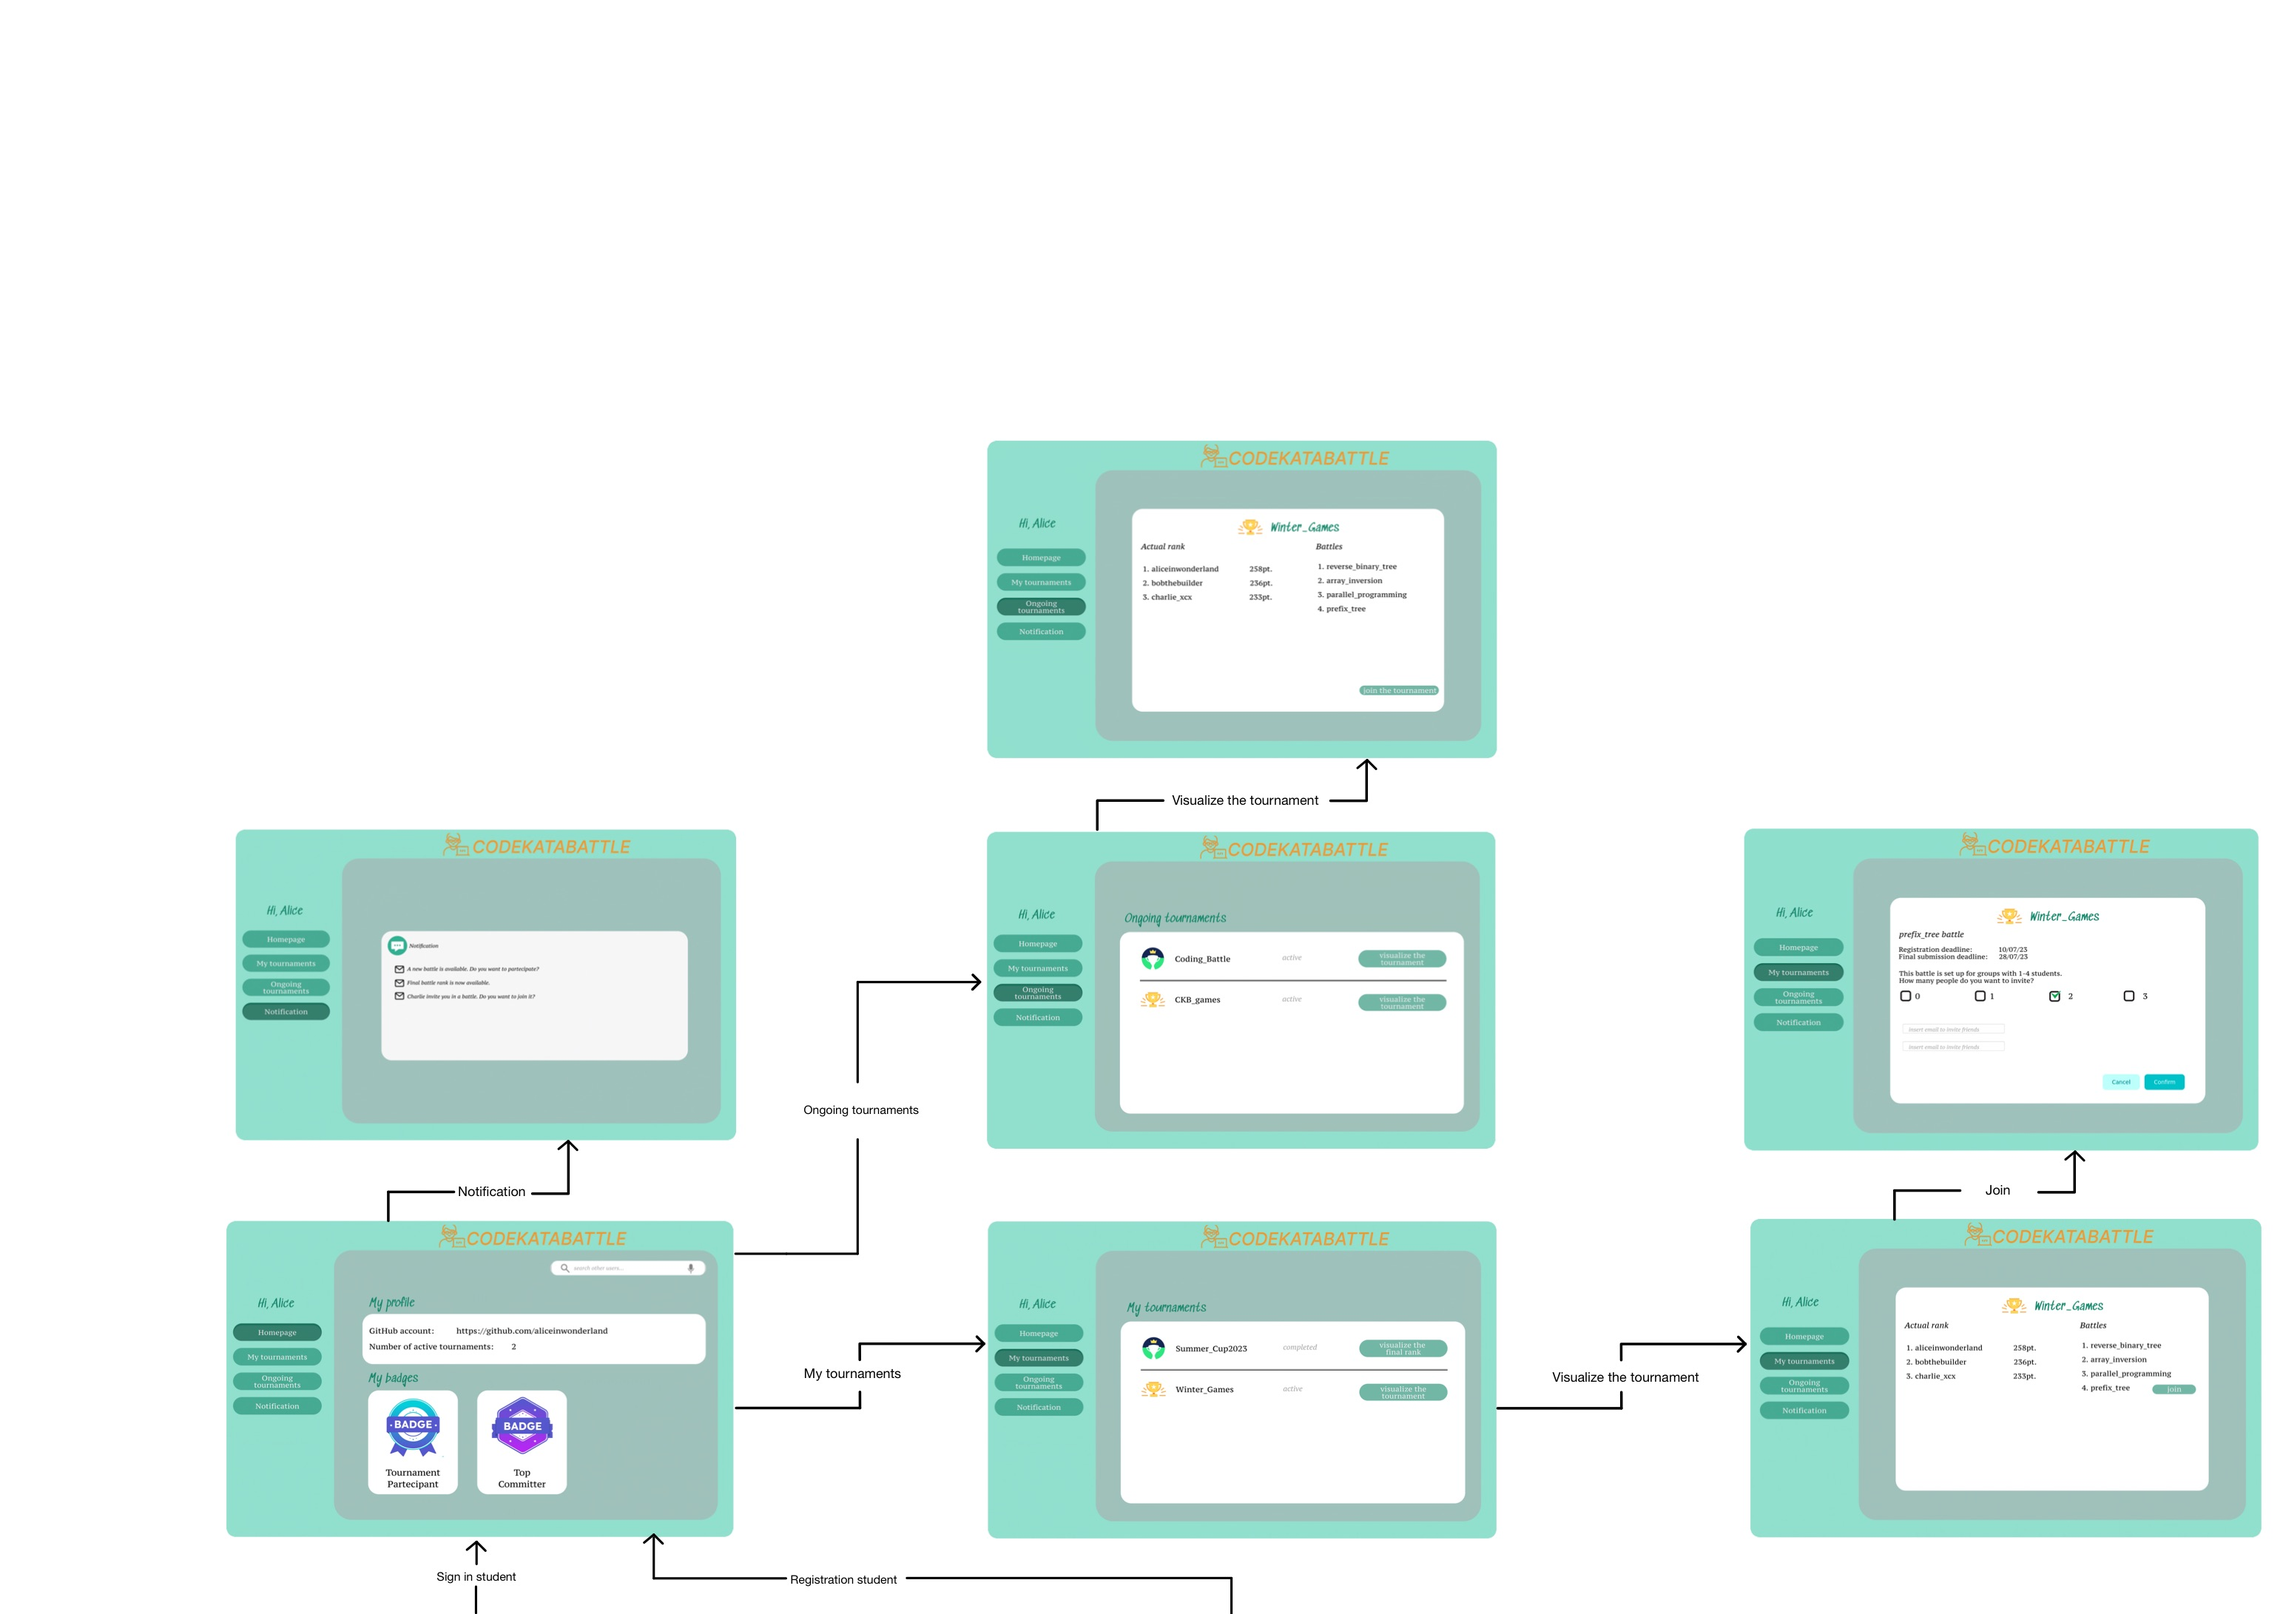
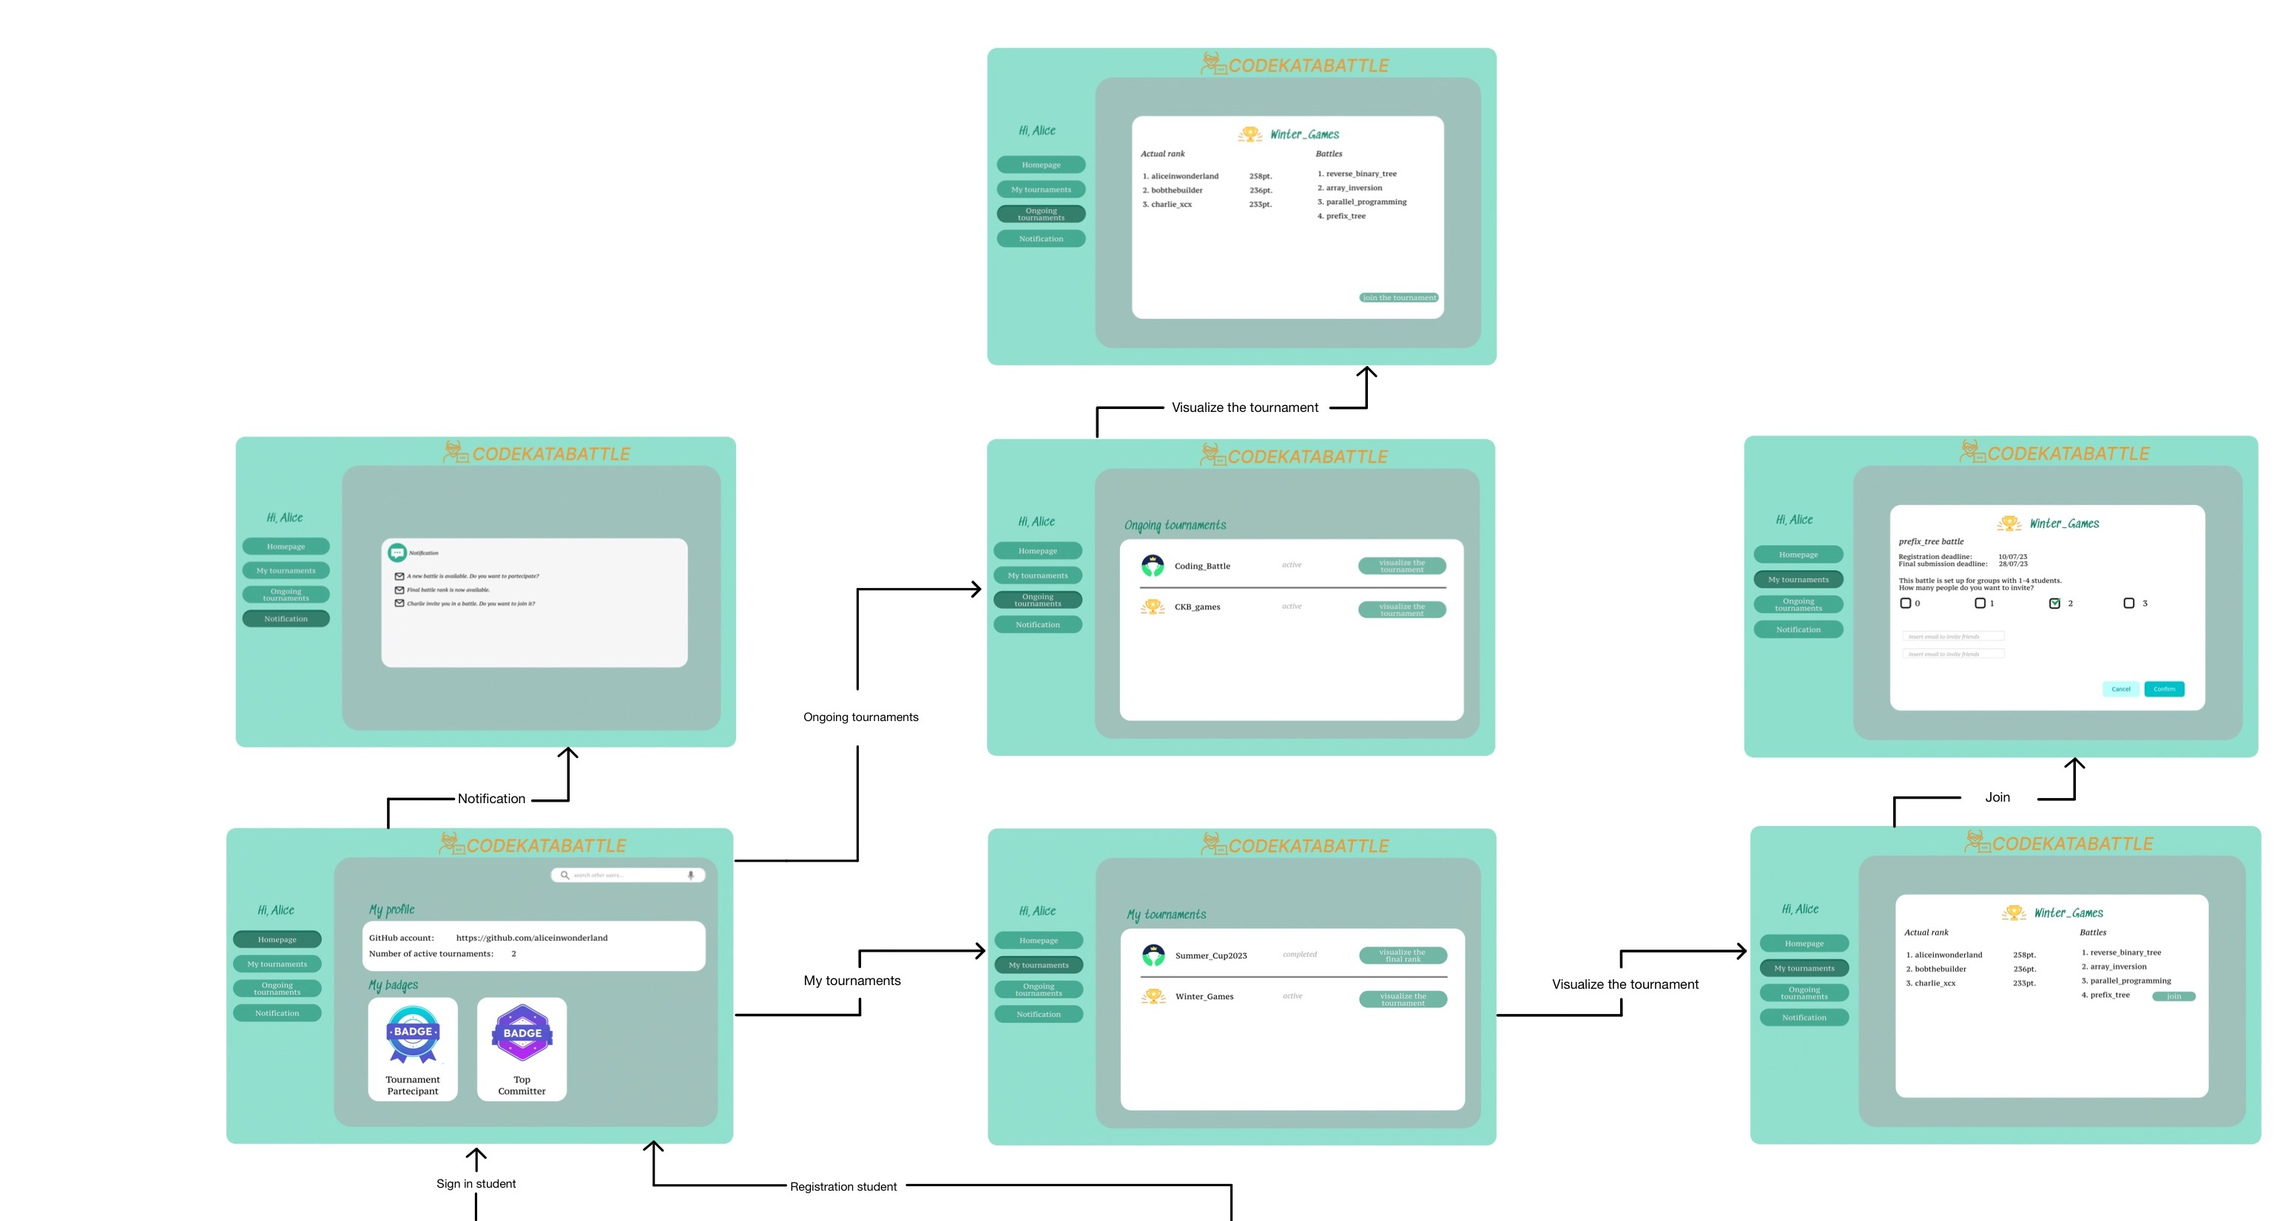
minor fix

diff --git a/DD/chapters/03_user_interface_design.tex b/DD/chapters/03_user_interface_design.tex
@@ -115,7 +115,7 @@ are shown in the following figures.\\
 The following diagram shows the connection between the different pages of the application. 
 \begin{figure}[H]
     \centering
-    \includegraphics[width=1\textwidth]{images/Interface_flow_diagram.jpg}
-    \includegraphics[width=1\textwidth]{images/Interface_flow_diagram2.jpg}
+    \includegraphics[width=1.15\textwidth]{images/Interface_flow_diagram2.jpg}
+    \includegraphics[width=1.15\textwidth]{images/Interface_flow_diagram.jpg} 
     \caption{User Interface Flow Diagram}
 \end{figure}
